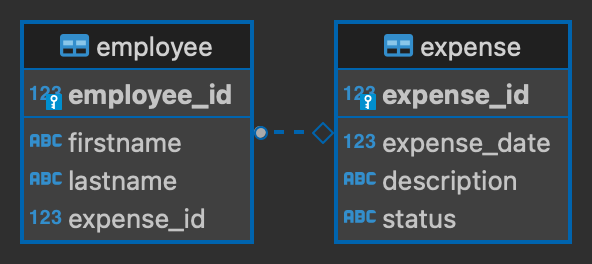
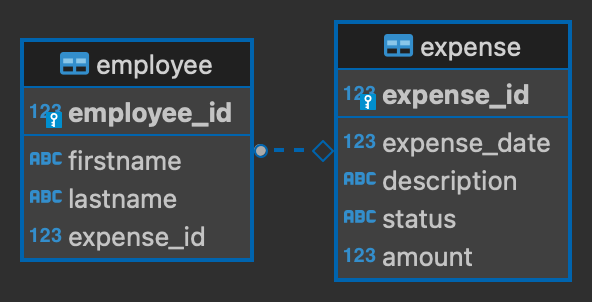
Minor changes

diff --git a/src/main/java/dev/tyler/data/ExpenseDAOPostgresImpl.java b/src/main/java/dev/tyler/data/ExpenseDAOPostgresImpl.java
@@ -1,4 +1,74 @@
 package dev.tyler.data;
 
-public class ExpenseDAOPostgresImpl {
+import dev.tyler.entities.Expense;
+import dev.tyler.utilities.ConnectionUtil;
+
+import java.sql.Connection;
+import java.sql.PreparedStatement;
+import java.sql.ResultSet;
+import java.sql.SQLException;
+
+public class ExpenseDAOPostgresImpl implements ExpenseDAO{
+    @Override
+    public Expense createExpense(Expense expense) {
+        try{
+            Connection conn = ConnectionUtil.createConnection();
+            String sql = "insert into expense values(default, ?, ?, ?, ?)";
+            PreparedStatement ps = conn.prepareStatement(sql);
+            ps.setLong(1, expense.getDate());
+            ps.setString(2, expense.getDescription());
+            ps.setString(3, expense.getStatus());
+            ps.setInt(4, expense.getAmount());
+            ps.execute();
+            ResultSet rs = ps.getGeneratedKeys();
+            rs.next();
+            int generatedId = rs.getInt("expense_id");
+            expense.setId(generatedId);
+            return expense;
+        }catch (SQLException e){
+            return null;
+        }
+    }
+
+    @Override
+    public Expense getExpenseById(int id) {
+        try{
+            Connection conn = ConnectionUtil.createConnection();
+            String sql = "";
+            PreparedStatement ps = conn.prepareStatement(sql);
+
+            return null;
+        }catch (SQLException e){
+            return null;
+        }
+
+    }
+
+    @Override
+    public Expense updateExpense(Expense expense) {
+        try{
+            Connection conn = ConnectionUtil.createConnection();
+            String sql = "";
+            PreparedStatement ps = conn.prepareStatement(sql);
+
+            return null;
+        }catch (SQLException e){
+            return null;
+        }
+
+    }
+
+    @Override
+    public boolean deleteExpenseById(int id) {
+        try{
+            Connection conn = ConnectionUtil.createConnection();
+            String sql = "";
+            PreparedStatement ps = conn.prepareStatement(sql);
+
+            return true;
+        }catch (SQLException e){
+            return false;
+        }
+
+    }
 }

diff --git a/src/main/java/dev/tyler/data/EmployeeDAOPostgresImpl.java b/src/main/java/dev/tyler/data/EmployeeDAOPostgresImpl.java
@@ -1,4 +1,64 @@
 package dev.tyler.data;
 
-public class EmployeeDAOPostgresImpl {
+import dev.tyler.entities.Employee;
+import dev.tyler.entities.Expense;
+import dev.tyler.utilities.ConnectionUtil;
+
+import java.sql.Connection;
+import java.sql.PreparedStatement;
+import java.sql.SQLException;
+import java.util.List;
+
+public class EmployeeDAOPostgresImpl implements EmployeeDAO {
+    @Override
+    public Employee createEmployee(Employee employee) {
+        try{
+            Connection conn = ConnectionUtil.createConnection();
+            String sql = "";
+            PreparedStatement ps = conn.prepareStatement(sql);
+
+            return null;
+        }catch (SQLException e){
+            return null;
+        }
+    }
+
+    @Override
+    public Employee getEmployeeById(int id) {
+        try{
+            Connection conn = ConnectionUtil.createConnection();
+            String sql = "";
+            PreparedStatement ps = conn.prepareStatement(sql);
+
+            return null;
+        }catch (SQLException e){
+            return null;
+        }
+    }
+
+    @Override
+    public Employee updateEmployee(Employee employee) {
+        try{
+            Connection conn = ConnectionUtil.createConnection();
+            String sql = "";
+            PreparedStatement ps = conn.prepareStatement(sql);
+
+            return null;
+        }catch (SQLException e){
+            return null;
+        }
+    }
+
+    @Override
+    public List<Expense> getEmployeeExpenses(int id) {
+        try{
+            Connection conn = ConnectionUtil.createConnection();
+            String sql = "";
+            PreparedStatement ps = conn.prepareStatement(sql);
+
+            return null;
+        }catch (SQLException e){
+            return null;
+        }
+    }
 }

diff --git a/src/main/java/dev/tyler/entities/Expense.java b/src/main/java/dev/tyler/entities/Expense.java
@@ -3,17 +3,19 @@ package dev.tyler.entities;
 public class Expense {
     private int id;
     private long date;
-    private String desc;
+    private String description;
     private String status;
+    private int amount;
 
     public Expense() {
     }
 
-    public Expense(int id, long date, String desc, String status) {
+    public Expense(int id, long date, String description, String status, int amount) {
         this.id = id;
         this.date = date;
-        this.desc = desc;
+        this.description = description;
         this.status = status;
+        this.amount = amount;
     }
 
     public int getId() {
@@ -32,12 +34,12 @@ public class Expense {
         this.date = date;
     }
 
-    public String getDesc() {
-        return desc;
+    public String getDescription() {
+        return description;
     }
 
-    public void setDesc(String desc) {
-        this.desc = desc;
+    public void setDescription(String description) {
+        this.description = description;
     }
 
     public String getStatus() {
@@ -48,13 +50,22 @@ public class Expense {
         this.status = status;
     }
 
+    public int getAmount() {
+        return amount;
+    }
+
+    public void setAmount(int amount) {
+        this.amount = amount;
+    }
+
     @Override
     public String toString() {
         return "Expense{" +
                 "id=" + id +
                 ", date=" + date +
-                ", desc='" + desc + '\'' +
+                ", description='" + description + '\'' +
                 ", status='" + status + '\'' +
+                ", amount=" + amount +
                 '}';
     }
 }
